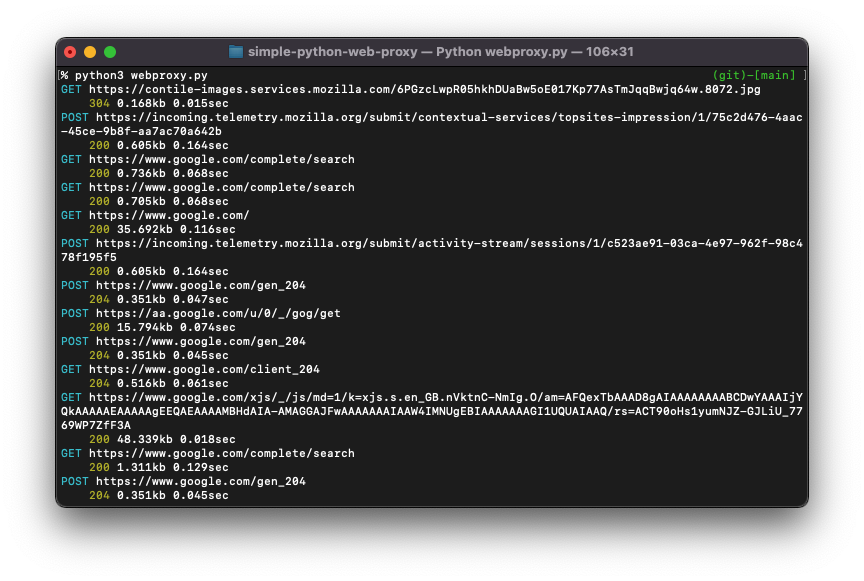
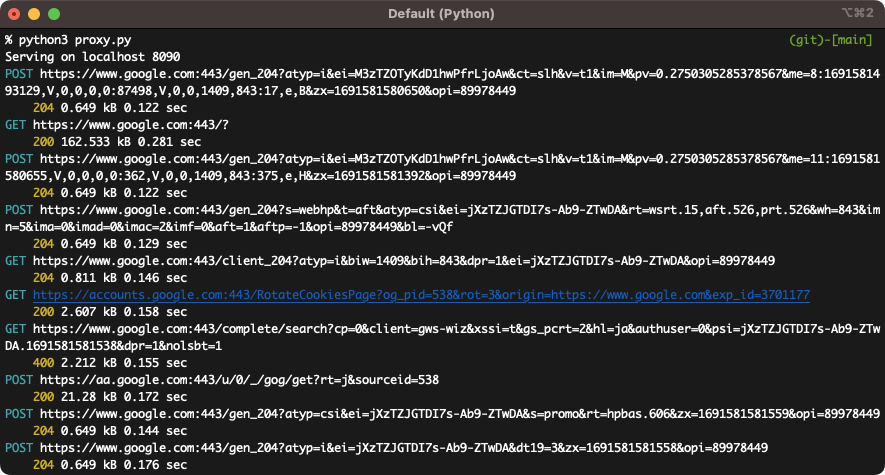
大幅アップデート

diff --git a/proxy/main.py b/proxy/main.py
@@ -35,9 +35,7 @@ class TCPHandler(socketserver.BaseRequestHandler):
         request = Request(host, port, False, message=request_message)
         response = request.send()
 
-        if not response:
-            util.print_error("Error: Response is None")
-            return
+        if not response: return
 
         client_socket.sendall(bytes(response.message))
         client_socket.close()
@@ -71,7 +69,6 @@ class TCPHandler(socketserver.BaseRequestHandler):
             ssl_client_socket.setsockopt(socket.SOL_SOCKET, socket.SO_REUSEADDR, 1)
         except Exception as e:
             client_socket.close()
-            util.print_error("SSL connection error: %s" % e)
             return
 
         raw_request = tube.recv_raw_http_request(ssl_client_socket)
@@ -85,8 +82,7 @@ class TCPHandler(socketserver.BaseRequestHandler):
         try:
             ssl_client_socket.sendall(bytes(response.message))
         except OSError as e:
-            util.print_error("Sending Error: %s" % e)
-            pass
+            return
 
         ssl_client_socket.close()
 

diff --git a/proxy/http/request.py b/proxy/http/request.py
@@ -25,6 +25,7 @@ class Request:
             self.scheme = "http"
 
         self.message = message
+        self.url = '%s://%s:%s%s' % (self.scheme, self.host, self.port, self.message.get_origin_form())
 
     # http2への対応
     def alter_request_line(self) -> bool:
@@ -90,11 +91,11 @@ class Response:
         self.response_time = response_time
 
     def set_request_object(self, request_object: Request) -> None:
-        self.request_object = request_object
+        self.request = request_object
 
     def get_roundtrip_time(self) -> float | None:
-        if not self.request_object or not self.request_object.request_time or not self.response_time:
+        if not self.request or not self.request.request_time or not self.response_time:
             return None
 
-        roundtrip_time_timedelta = self.response_time - self.request_object.request_time
+        roundtrip_time_timedelta = self.response_time - self.request.request_time
         return roundtrip_time_timedelta

diff --git a/proxy/http/httpprocess.py b/proxy/http/httpprocess.py
@@ -17,8 +17,8 @@ class HttpProcess():
     def process_response(self, response: Response):
         request = response.request
 
-        print(colored(response.message.status_code, 'yellow') + ' ' + colored(request.message.method, 'cyan') + ' ' + request.host + ' ' +  request.message.path)
-        #print(str(round(response_object.res_len/1024, 3)) + 'kb ' + str(response_object.get_roundtrip_time()) + 'sec\n', end='')
+        print(colored(request.message.method, 'cyan') + ' ' + request.url)
+        print('    ' + colored(response.message.status_code, 'yellow') + ' ' + str(round(len(bytes(response.message))/1024, 3)) + ' kB ' + str(round(response.get_roundtrip_time(), 3)) + ' sec\n', end='')
         #print(response.message)
         #print(response_object.raw_body)
         #print(len(response_object.raw_body))

diff --git a/proxy/http/http.py b/proxy/http/http.py
@@ -258,14 +258,19 @@ class RequestMessage:
             msg += str(self.raw_body)[2:-1]
             return msg
 
+    def get_origin_form(self):
+        origin_form = "%s?%s" % (self.path, str(self.queries))
+        if self.fragment:
+            origin_form += "#%s" % self.fragment
+
+        return origin_form
+
     def get_request_line(self):
         request_target = ""
         if self.scheme and self.netloc:
             request_target += "%s://%s" % (self.scheme, self.netloc)
 
-        request_target += "%s?%s" % (self.path, str(self.queries))
-        if self.fragment:
-            request_target += "#%s" % self.fragment
+        request_target += self.get_origin_form()
 
         request_line = "%s %s %s\r\n" % (
             self.method, request_target, self.http_version)

diff --git a/README.md b/README.md
@@ -4,7 +4,7 @@ Simple HTTP/HTTPS proxy written in Python.
 ![](./img/ScreenShot.png)
 
 ## HTTPS Handling
-Install "ssl/ca-cert.pem" in your browser.
+Install "proxy/ssl/ca-cert.pem" to your browser.
 
 ## Generate New CA Certification
 ```
